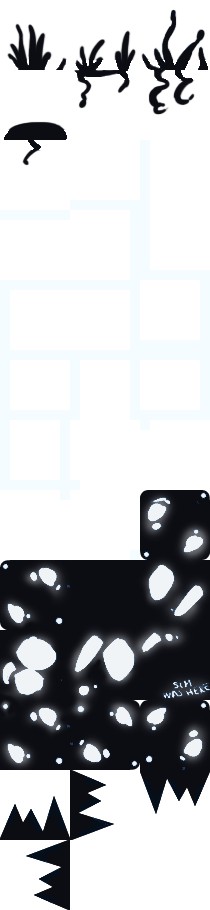
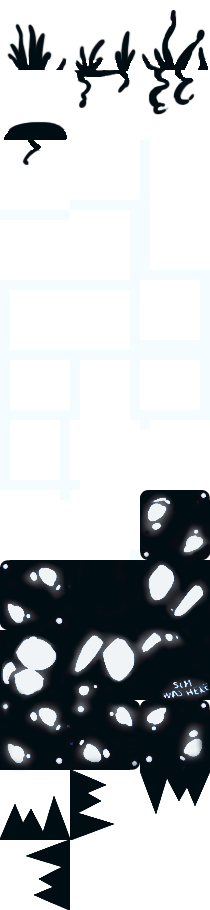
Luces molonas y fondo de la cueva arreglao (ma o meno :blush: ), la lluvia ya no se queda a mitad de camino subiendo, y hay menos gotas de agua al entrar en la cueva

diff --git a/Juego.cpp b/Juego.cpp
@@ -95,7 +95,8 @@ Juego::Juego() {
     rain.alignToDirection(true);                    // Alinea las partículas a la dirección del movimiento, por defecto es false, si está a true, se ingora la rotación inicial
     rain.setSprite("assets/THE_WATER_DROP.png");    // Cambia el sprite
     rain.setSpriteSize(1, 0.8);                     // Cambia el tamaño del sprite
-
+    rain.drawGenerationArea(true);
+    
     minirain.setPosition(1500, 200);                    
     minirain.setType(1);                               
     minirain.setParticleSpeed(300);                     
@@ -480,8 +481,8 @@ void Juego::Update(){
         view->zoom(zoom);
         renderEngine::Instance().setView(*view);
 
-        rain.setPosition(view->getCenter()[0], rain.getYPosition());
-        minirain.setPosition(view->getCenter()[0], rain.getYPosition());
+        rain.setPosition(view->getCenter()[0], view->getCenter()[1]-renderEngine::Instance().getViewSize()[1]/2 -120);
+        minirain.setPosition(view->getCenter()[0], view->getCenter()[1]-renderEngine::Instance().getViewSize()[1]/2 -120);
 
         // LÓGICA DE LOS NPC Y JUGADORES
         for(int i=0; i< readyPlayer.size(); i++){
@@ -567,6 +568,7 @@ void Juego::Render(){
                 m = difference;
                 view->move(0, -abs(m) / 15);
             }
+            trimCamera();
         }
 
         //view->setCenter(view->getCenter()[0]+12, Mapa::Instance().getYMax()+1400);        // <- Esta línea hace que recorra el mapa la camara
@@ -627,6 +629,19 @@ void Juego::switchCameradirection() {
 }
 
 void Juego::trimCamera() {
+    view->setCenter(view->getCenter()[0], static_cast<int>(view->getCenter()[1]));
     if(static_cast<int>(view->getCenter()[1]) % 2 != 0)
         view->move(0, 1);
+}
+
+void Juego::changeRain() {
+    rain.setParticleSpeed(220);                     // Velocidad lineal de las partículas
+    rain.setGenerationTimer(200);                     // Tiempo (ms) de delay entre la generación de partículas (En este caso se genera una partícula cada 4 ms)
+    rain.setParticleLifeTime(2);                    // Tiempo de vida en segundos, de vida d elas partículas
+    rain.setParticleDirection(0, 1);             // Dirección de las partículas, debe ser un número entre 0 y 1
+          
+    minirain.setParticleSpeed(200);                                  
+    minirain.setGenerationTimer(150);                  
+    minirain.setParticleLifeTime(2);
+    minirain.setParticleDirection(0, 1);
 }

diff --git a/Mapa/Nodo/Nodo.cpp b/Mapa/Nodo/Nodo.cpp
@@ -185,7 +185,11 @@ void Nodo::addPower(int id, int xMin, int xMax, int y_) {
 }
 
 void Nodo::addLight(int x_, int y_) {
-    lights.push_back(std::array<int, 2>{x_, y_});
+    renderEngine::rSprite lus;
+    lus.setTexture(AssetManager::GetTexture("assets/LUS.png"));
+    lus.setOrigin(AssetManager::GetTexture("assets/LUS.png").getXSize()/2, AssetManager::GetTexture("assets/LUS.png").getYSize()/2);
+    lus.setPosition(x_, y_);
+    LIGHTS.push_back(lus);
 }
 
 
@@ -199,7 +203,7 @@ void Nodo::draw(float tick_, renderEngine::rIntRect limit, int min, int max){
     
     //------------|  ENEMIGOS  |------------//
     for(int j = 0; j < npcs.size(); j++)
-        if(npcs[j] && npcs[j]->getXPosition() > min-250 && npcs[j]->getXPosition() < max+250){
+        if(npcs[j]->getXPosition() > min-250 && npcs[j]->getXPosition() < max+250){
             npcs[j]->interpola(tick_);
             npcs[j]->draw();
         }
@@ -210,11 +214,8 @@ void Nodo::draw(float tick_, renderEngine::rIntRect limit, int min, int max){
     if(minijuego != nullptr)
         minijuego->draw(tick_);
 
-    for(int i = 0; i <lights.size(); ++i){
-        
-       
-    }
-    
+    for(int i = 0; i <LIGHTS.size(); ++i)
+        LIGHTS[i].draw();
 }
 
 void Nodo::drawSuperiorLayer(renderEngine::rIntRect limit) {

diff --git a/Mapa/Mapa.cpp b/Mapa/Mapa.cpp
@@ -121,8 +121,6 @@
 
     //LeeNodo("tiles_definitivo/nodos/0.tmx");
 
-    Factory::Instance().LeeNodo("tiles_definitivo/nodos/15.tmx");
-
     std::string path;
     for(int i = 0; i < 16; ++i){
         path = "tiles_definitivo/nodos/";
@@ -615,17 +613,17 @@ void Mapa::update(){
     for(int i = 0; i< players->size(); ++i) {
         Player* ready = (*players)[i];
         if(ready->getSprite().intersects(transportation)){
-            text_fondo = AssetManager::GetTexture("assets/Background2.png");
+            text_fondo = AssetManager::GetTexture("assets/bg.jpg");
             background1.setTexture(text_fondo);
             background2.setTexture(text_fondo);
             ready->transportToSecondPhase(transportation.getPosition()[0] + 27*70, transportation.getPosition()[1] + 20*70);
+            Juego::Instance().changeRain();
         }
     }
 }
 
 void Mapa::renderBackground() {
     //EMPIEZO A RENDERIZAR
-
     background1.draw();
     background2.draw();
 }

diff --git a/Factory.cpp b/Factory.cpp
@@ -347,8 +347,7 @@ void Factory::leeLuces(tinyxml2::XMLElement* obj, NodeStruct& node) {
     LightStruct lus;
     
     obj = obj->FirstChildElement("object");
-    
-    std::vector<CheckpointStruct> aux;
+
     int width, height;
     while (obj) {
         obj->QueryIntAttribute("x", &(lus.x));
@@ -358,7 +357,7 @@ void Factory::leeLuces(tinyxml2::XMLElement* obj, NodeStruct& node) {
         
         lus.x += width/2;
         lus.y += height/2;
-        
+
         node.Lights.push_back(lus);
         
         obj = obj->NextSiblingElement("object");

diff --git a/Mapa/Nodo/Nodo.h b/Mapa/Nodo/Nodo.h
@@ -70,11 +70,11 @@ private:
     renderEngine::rTexture spritesheet;
     
     // Objetos que contiene el nodo
-    std::vector<std::array<int, 2>> lights;
     std::vector<NPC*> npcs;
     std::vector<pBody> ground;
     std::vector<renderEngine::rRectangleShape> pinchos;
     std::vector<renderEngine::rSprite> v_esprait;
+    std::vector<renderEngine::rSprite> LIGHTS;
     std::vector< std::vector<renderEngine::rSprite> > superiorLayer;
     Minijuego* minijuego;
 

diff --git a/Mapa/Nodo/Minijuegos/goingUp.cpp b/Mapa/Nodo/Minijuegos/goingUp.cpp
@@ -77,6 +77,7 @@ void goingUp::update() {
                 if(ready->getSprite().intersects(endArea)){
                     Juego::Instance().switchCameradirection();
                     END = true;
+                    std::cout << "VIEW CENTER: " << renderEngine::Instance().getViewCenter()[0] << ", " << renderEngine::Instance().getViewCenter()[1] << std::endl;
                 }
             }
         }

diff --git a/renderEngine/renderEngine.cpp b/renderEngine/renderEngine.cpp
@@ -124,6 +124,7 @@ void renderEngine::rSprite::draw() {
     renderEngine* sfml;
     sfml->Instance().getWindow()->draw(sprite);
 }
+
 bool renderEngine::rSprite::intersects(renderEngine::rRectangleShape rs) {
     return sprite.getGlobalBounds().intersects(rs.getRectShape().getGlobalBounds());
 }

diff --git a/Mapa/Mapa.h b/Mapa/Mapa.h
@@ -139,6 +139,7 @@ private:
     renderEngine::rSprite background2;
     renderEngine::rRectangleShape f1;
     renderEngine::rRectangleShape f2;
+
     bool stopBackgroundMovement;
     std::vector<renderEngine::rRectangleShape> debug;
     

diff --git a/Juego.h b/Juego.h
@@ -47,6 +47,7 @@ public:
     virtual void Handle();
     
     void trimCamera();
+    void changeRain();
     void switchCameradirection();
     std::vector<Player*>* getPlayers();
     renderEngine::rView* getPrincipalView();
